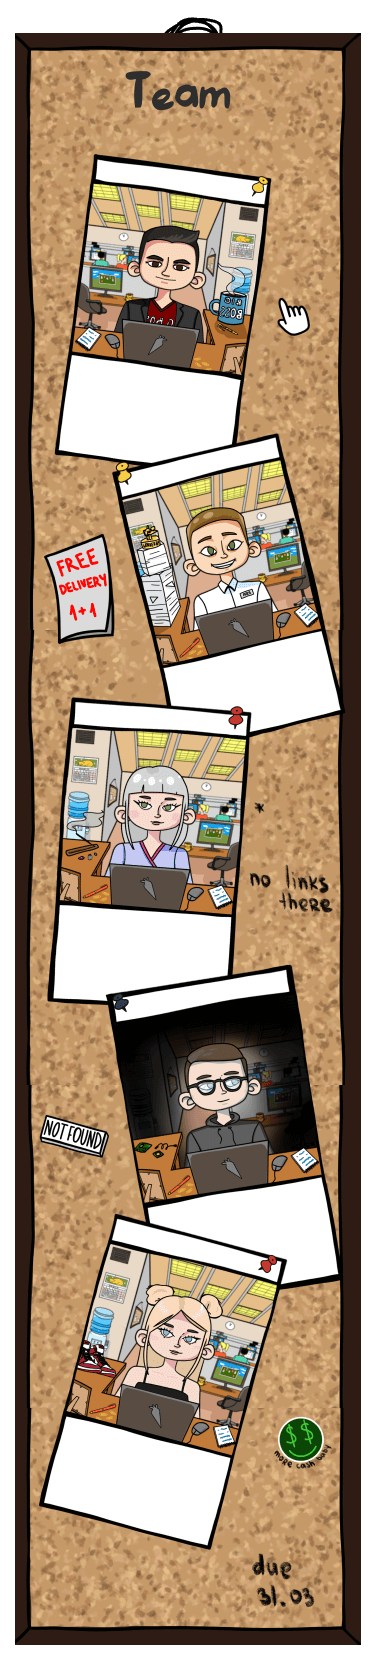
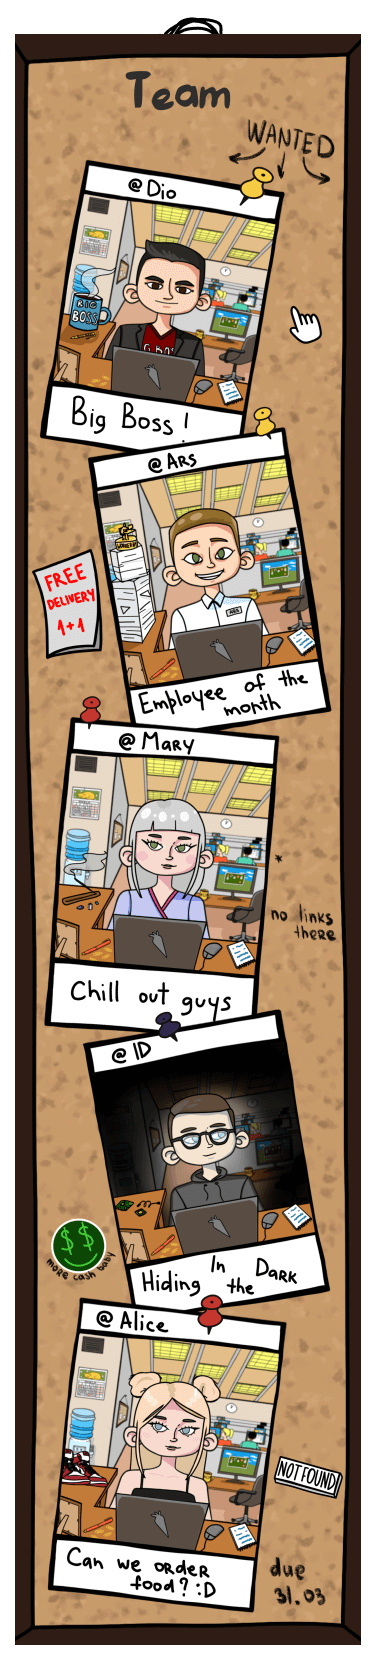
feat: replace team image

diff --git a/src/app/components/team/team.styles.scss b/src/app/components/team/team.styles.scss
@@ -70,8 +70,8 @@
 
     &.team__link--second {
       top: 27%;
-      right: 15%;
-      transform: rotate(-13deg);
+      right: 20%;
+      transform: rotate(-10deg);
 
       @media (min-width: 768px) {
         top: 18vw;
@@ -83,9 +83,9 @@
     }
 
     &.team__link--third {
-      top: 58.5%;
-      left: 34.5%;
-      transform: rotate(-9deg);
+      top: 61%;
+      left: 30%;
+      transform: rotate(-10deg);
 
       @media (min-width: 768px) {
         top: 8.5vw;
@@ -96,9 +96,10 @@
     }
 
     &.team__link--fourth {
-      top: 42%;
+      top: 44%;
       left: 16%;
       transform: rotate(5deg);
+      width: 55%;
 
       @media (min-width: 768px) {
         top: 19.5vw;
@@ -108,9 +109,9 @@
     }
 
     &.team__link--fifth {
-      top: 75%;
+      top: 78%;
       left: 19%;
-      transform: rotate(14deg);
+      transform: rotate(7deg);
 
       @media (min-width: 768px) {
         top: 7vw;
